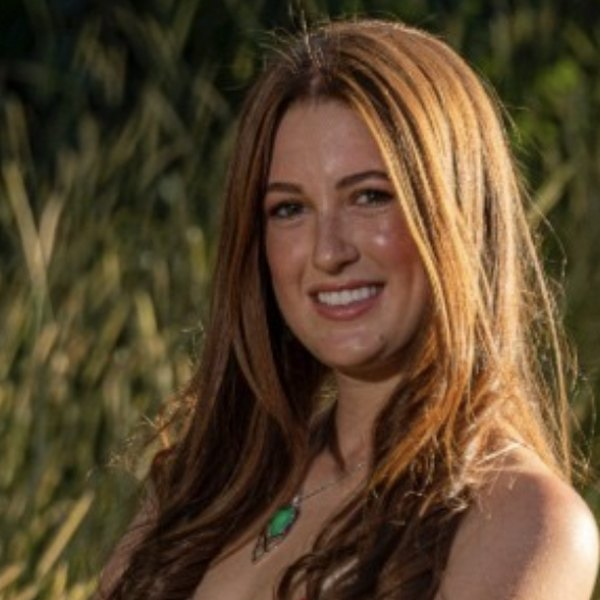
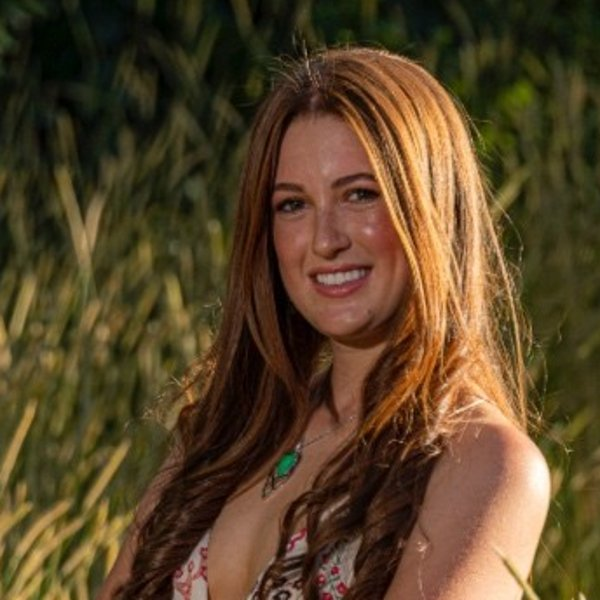
Drag and drop photos (many at once for albums); new photo for Sigal
Claude-Session: https://claude.ai/code/session_01Uu5JnV9rNqTbNoUChzHykr

diff --git a/app/members/photos/[id]/Uploader.tsx b/app/members/photos/[id]/Uploader.tsx
@@ -1,52 +1,102 @@
 'use client';
 
 import { useRouter } from 'next/navigation';
-import { useState } from 'react';
+import { useEffect, useRef, useState } from 'react';
 import { createClient } from '@/lib/supabase/client';
 import { shrinkImage } from '@/lib/shrinkImage';
-import { Plus } from '@/components/Icons';
 import { photosAdded } from '../../actions';
 
 const MAX_MB = 15;
 
+/** Add photos to an album: drag in as many as you like (anywhere on the page) or click to choose. */
 export default function Uploader({ albumId }: { albumId: string }) {
   const router = useRouter();
   const [busy, setBusy] = useState(false);
+  const [progress, setProgress] = useState<string | null>(null);
   const [msg, setMsg] = useState<string | null>(null);
+  const [dragging, setDragging] = useState(false);
+  const input = useRef<HTMLInputElement>(null);
+  const depth = useRef(0);
 
-  async function onFiles(e: React.ChangeEvent<HTMLInputElement>) {
-    const files = Array.from(e.target.files ?? []);
-    e.target.value = '';
-    if (!files.length) return;
+  async function upload(list: File[]) {
+    const files = list.filter((f) => f.type.startsWith('image/'));
+    if (!files.length || busy) return;
     setBusy(true);
     setMsg(null);
     const supabase = createClient();
     let done = 0;
     let failed = 0;
-    for (const original of files) {
-      if (!original.type.startsWith('image/') || original.size > MAX_MB * 1024 * 1024) { failed++; continue; }
-      const file = await shrinkImage(original);
-      const ext = (file.name.split('.').pop() || 'jpg').toLowerCase().replace(/[^a-z0-9]/g, '');
-      const path = `${albumId}/${crypto.randomUUID()}.${ext}`;
-      const up = await supabase.storage.from('photos').upload(path, file, { contentType: file.type });
-      if (up.error) { failed++; continue; }
-      const ins = await supabase.from('photos').insert({ album_id: albumId, storage_path: path });
-      if (ins.error) { failed++; await supabase.storage.from('photos').remove([path]); continue; }
-      done++;
+    let next = 0;
+    const tick = () => setProgress(`Uploading ${done + failed} of ${files.length}…`);
+    tick();
+    async function worker() {
+      while (next < files.length) {
+        const original = files[next++];
+        try {
+          if (original.size > MAX_MB * 1024 * 1024) throw new Error('too big');
+          const file = await shrinkImage(original);
+          const ext = (file.name.split('.').pop() || 'jpg').toLowerCase().replace(/[^a-z0-9]/g, '');
+          const path = `${albumId}/${crypto.randomUUID()}.${ext}`;
+          const up = await supabase.storage.from('photos').upload(path, file, { contentType: file.type });
+          if (up.error) throw up.error;
+          const ins = await supabase.from('photos').insert({ album_id: albumId, storage_path: path });
+          if (ins.error) { await supabase.storage.from('photos').remove([path]); throw ins.error; }
+          done++;
+        } catch {
+          failed++;
+        }
+        tick();
+      }
     }
+    await Promise.all(Array.from({ length: Math.min(4, files.length) }, worker));
     setBusy(false);
+    setProgress(null);
     if (done) photosAdded(albumId, done).catch(() => {});
     setMsg(failed ? `Added ${done}. ${failed} couldn’t be added (images under ${MAX_MB} MB only).` : `Added ${done} ${done === 1 ? 'photo' : 'photos'}.`);
     router.refresh();
   }
 
+  // Drop photos anywhere on the album page.
+  useEffect(() => {
+    const hasFiles = (e: DragEvent) => Array.from(e.dataTransfer?.types ?? []).includes('Files');
+    const enter = (e: DragEvent) => { if (!hasFiles(e)) return; depth.current++; setDragging(true); };
+    const leave = (e: DragEvent) => { if (!hasFiles(e)) return; depth.current = Math.max(0, depth.current - 1); if (!depth.current) setDragging(false); };
+    const over = (e: DragEvent) => { if (hasFiles(e)) e.preventDefault(); };
+    const drop = (e: DragEvent) => {
+      if (!hasFiles(e)) return;
+      e.preventDefault();
+      depth.current = 0;
+      setDragging(false);
+      upload(Array.from(e.dataTransfer?.files ?? []));
+    };
+    window.addEventListener('dragenter', enter);
+    window.addEventListener('dragleave', leave);
+    window.addEventListener('dragover', over);
+    window.addEventListener('drop', drop);
+    return () => {
+      window.removeEventListener('dragenter', enter);
+      window.removeEventListener('dragleave', leave);
+      window.removeEventListener('dragover', over);
+      window.removeEventListener('drop', drop);
+    };
+  });
+
   return (
-    <div style={{ display: 'flex', flexDirection: 'column', alignItems: 'flex-end', gap: 8 }}>
-      <label className="btn upload" aria-disabled={busy}>
-        <Plus /> {busy ? 'Uploading…' : 'Add photos'}
-        <input type="file" accept="image/*" multiple onChange={onFiles} disabled={busy} />
-      </label>
-      {msg && <p role="status" style={{ fontSize: 14 }}>{msg}</p>}
-    </div>
+    <>
+      <div
+        className="dropzone"
+        role="button"
+        tabIndex={0}
+        aria-disabled={busy}
+        onClick={() => !busy && input.current?.click()}
+        onKeyDown={(e) => { if ((e.key === 'Enter' || e.key === ' ') && !busy) { e.preventDefault(); input.current?.click(); } }}
+      >
+        <b>{busy ? progress : 'Add photos'}</b>
+        <span>{busy ? 'Keep this page open until it finishes.' : 'Drag photos anywhere on this page, or click to choose. You can add many at once.'}</span>
+        <input ref={input} type="file" accept="image/*" multiple hidden onChange={(e) => { upload(Array.from(e.target.files ?? [])); e.target.value = ''; }} />
+      </div>
+      {msg && <p role="status" style={{ fontSize: 15 }}>{msg}</p>}
+      {dragging && <div className="drop-overlay" aria-hidden><span>Drop photos to add them to this album</span></div>}
+    </>
   );
 }

diff --git a/components/ImageField.tsx b/components/ImageField.tsx
@@ -1,26 +1,27 @@
 'use client';
 
-import { useState } from 'react';
+import { useRef, useState } from 'react';
 import { createClient } from '@/lib/supabase/client';
 import { shrinkImage } from '@/lib/shrinkImage';
 
 const MAX_MB = 15;
 
-/** Optional photo picker for a form. Uploads right away and hands the form a stored path. */
+/** Photo picker for a form: drag a photo in or click to choose. Uploads right away and hands the form a stored path. */
 export default function ImageField({ label, name, folder, bucket = 'photos', initialPreview }: { label: string; name: string; folder: string; bucket?: string; initialPreview?: string | null }) {
   const [path, setPath] = useState('');
   const [preview, setPreview] = useState<string | null>(initialPreview ?? null);
   const [status, setStatus] = useState<string | null>(null);
-  const id = `img-${name}`;
+  const [over, setOver] = useState(false);
+  const input = useRef<HTMLInputElement>(null);
+  const round = folder === 'alumni';
 
-  async function onChange(e: React.ChangeEvent<HTMLInputElement>) {
-    const picked = e.target.files?.[0];
+  async function handle(picked: File | undefined) {
     if (!picked) return;
-    const file = await shrinkImage(picked);
-    if (!file.type.startsWith('image/') || picked.size > MAX_MB * 1024 * 1024) {
-      setStatus(`Please choose an image under ${MAX_MB} MB.`);
+    if (!picked.type.startsWith('image/') || picked.size > MAX_MB * 1024 * 1024) {
+      setStatus(`Please use an image under ${MAX_MB} MB.`);
       return;
     }
+    const file = await shrinkImage(picked);
     setStatus('Uploading…');
     setPreview(URL.createObjectURL(file));
     const ext = (file.name.split('.').pop() || 'jpg').toLowerCase().replace(/[^a-z0-9]/g, '');
@@ -32,19 +33,30 @@ export default function ImageField({ label, name, folder, bucket = 'photos', ini
       return;
     }
     setPath(p);
-    setStatus('Photo added.');
+    setStatus(null);
   }
 
   return (
     <div className="field">
-      <label htmlFor={id} className="label">{label}</label>
-      <input id={id} type="file" accept="image/*" onChange={onChange} className="input" />
+      <span className="label">{label}</span>
+      <div
+        className={`dropzone small${over ? ' over' : ''}`}
+        role="button"
+        tabIndex={0}
+        onClick={() => input.current?.click()}
+        onKeyDown={(e) => { if (e.key === 'Enter' || e.key === ' ') { e.preventDefault(); input.current?.click(); } }}
+        onDragOver={(e) => { e.preventDefault(); setOver(true); }}
+        onDragLeave={() => setOver(false)}
+        onDrop={(e) => { e.preventDefault(); setOver(false); handle(e.dataTransfer.files?.[0]); }}
+      >
+        {preview ? (
+          // eslint-disable-next-line @next/next/no-img-element
+          <img src={preview} alt="" style={{ width: 96, height: 96, objectFit: 'cover', borderRadius: round ? '50%' : 0, flex: 'none' }} />
+        ) : null}
+        <span>{status ?? (preview ? 'Drag a new photo here or click to change' : 'Drag a photo here or click to choose')}</span>
+        <input ref={input} type="file" accept="image/*" hidden onChange={(e) => { handle(e.target.files?.[0]); e.target.value = ''; }} />
+      </div>
       <input type="hidden" name={name} value={path} />
-      {preview && (
-        // eslint-disable-next-line @next/next/no-img-element
-        <img src={preview} alt="" style={{ width: 120, height: 120, objectFit: 'cover', marginTop: 6, borderRadius: folder === 'alumni' ? '50%' : 0 }} />
-      )}
-      {status && <p style={{ fontSize: 14 }}>{status}</p>}
     </div>
   );
 }

diff --git a/app/globals.css b/app/globals.css
@@ -388,3 +388,12 @@ textarea.input { resize: vertical; font: inherit; }
 #board .member-role { font-size: 17px; margin-top: 2px; }
 @media (max-width: 900px) { #board .members { grid-template-columns: repeat(2, minmax(0, 1fr)); gap: 40px 24px; } #board .member-name { font-size: 22px; } }
 @media (max-width: 520px) { #board .members { gap: 32px 16px; } #board .member-name { font-size: 18px; white-space: normal; } #board .member-role { font-size: 14px; } }
+
+/* Drag and drop photos */
+.dropzone { width: 100%; border: 1.5px dashed #b9b9b9; background: #fafafa; padding: 28px 24px; display: flex; flex-direction: column; align-items: center; justify-content: center; gap: 6px; text-align: center; cursor: pointer; color: var(--ink); }
+.dropzone b { font-family: var(--font-serif); font-size: 22px; font-weight: 500; }
+.dropzone span { font-size: 15px; color: #555; }
+.dropzone:hover, .dropzone.over, .dropzone:focus-visible { border-color: var(--maroon); background: #fbf4f4; }
+.dropzone.small { flex-direction: row; justify-content: flex-start; text-align: left; gap: 16px; padding: 16px 18px; min-height: 72px; }
+.drop-overlay { position: fixed; inset: 0; z-index: 60; background: rgba(140, 21, 21, 0.12); border: 3px dashed var(--maroon); display: flex; align-items: center; justify-content: center; pointer-events: none; }
+.drop-overlay span { background: #fff; padding: 16px 24px; font-family: var(--font-serif); font-size: 26px; box-shadow: 0 10px 40px rgba(0,0,0,.2); }

diff --git a/app/members/photos/[id]/page.tsx b/app/members/photos/[id]/page.tsx
@@ -40,8 +40,8 @@ export default async function AlbumPage({ params }: { params: Promise<{ id: stri
           {board && <AlbumControls id={album.id} title={album.title} canDelete={president} />}
           <p style={{ fontSize: 16 }}>{[dateLabel, `${paths.length} ${paths.length === 1 ? 'photo' : 'photos'}`].filter(Boolean).join(' · ')}</p>
         </div>
-        {board && <Uploader albumId={album.id} />}
       </div>
+      {board && <Uploader albumId={album.id} />}
       {paths.length === 0 ? (
         <p className="notice">No photos yet.</p>
       ) : (
